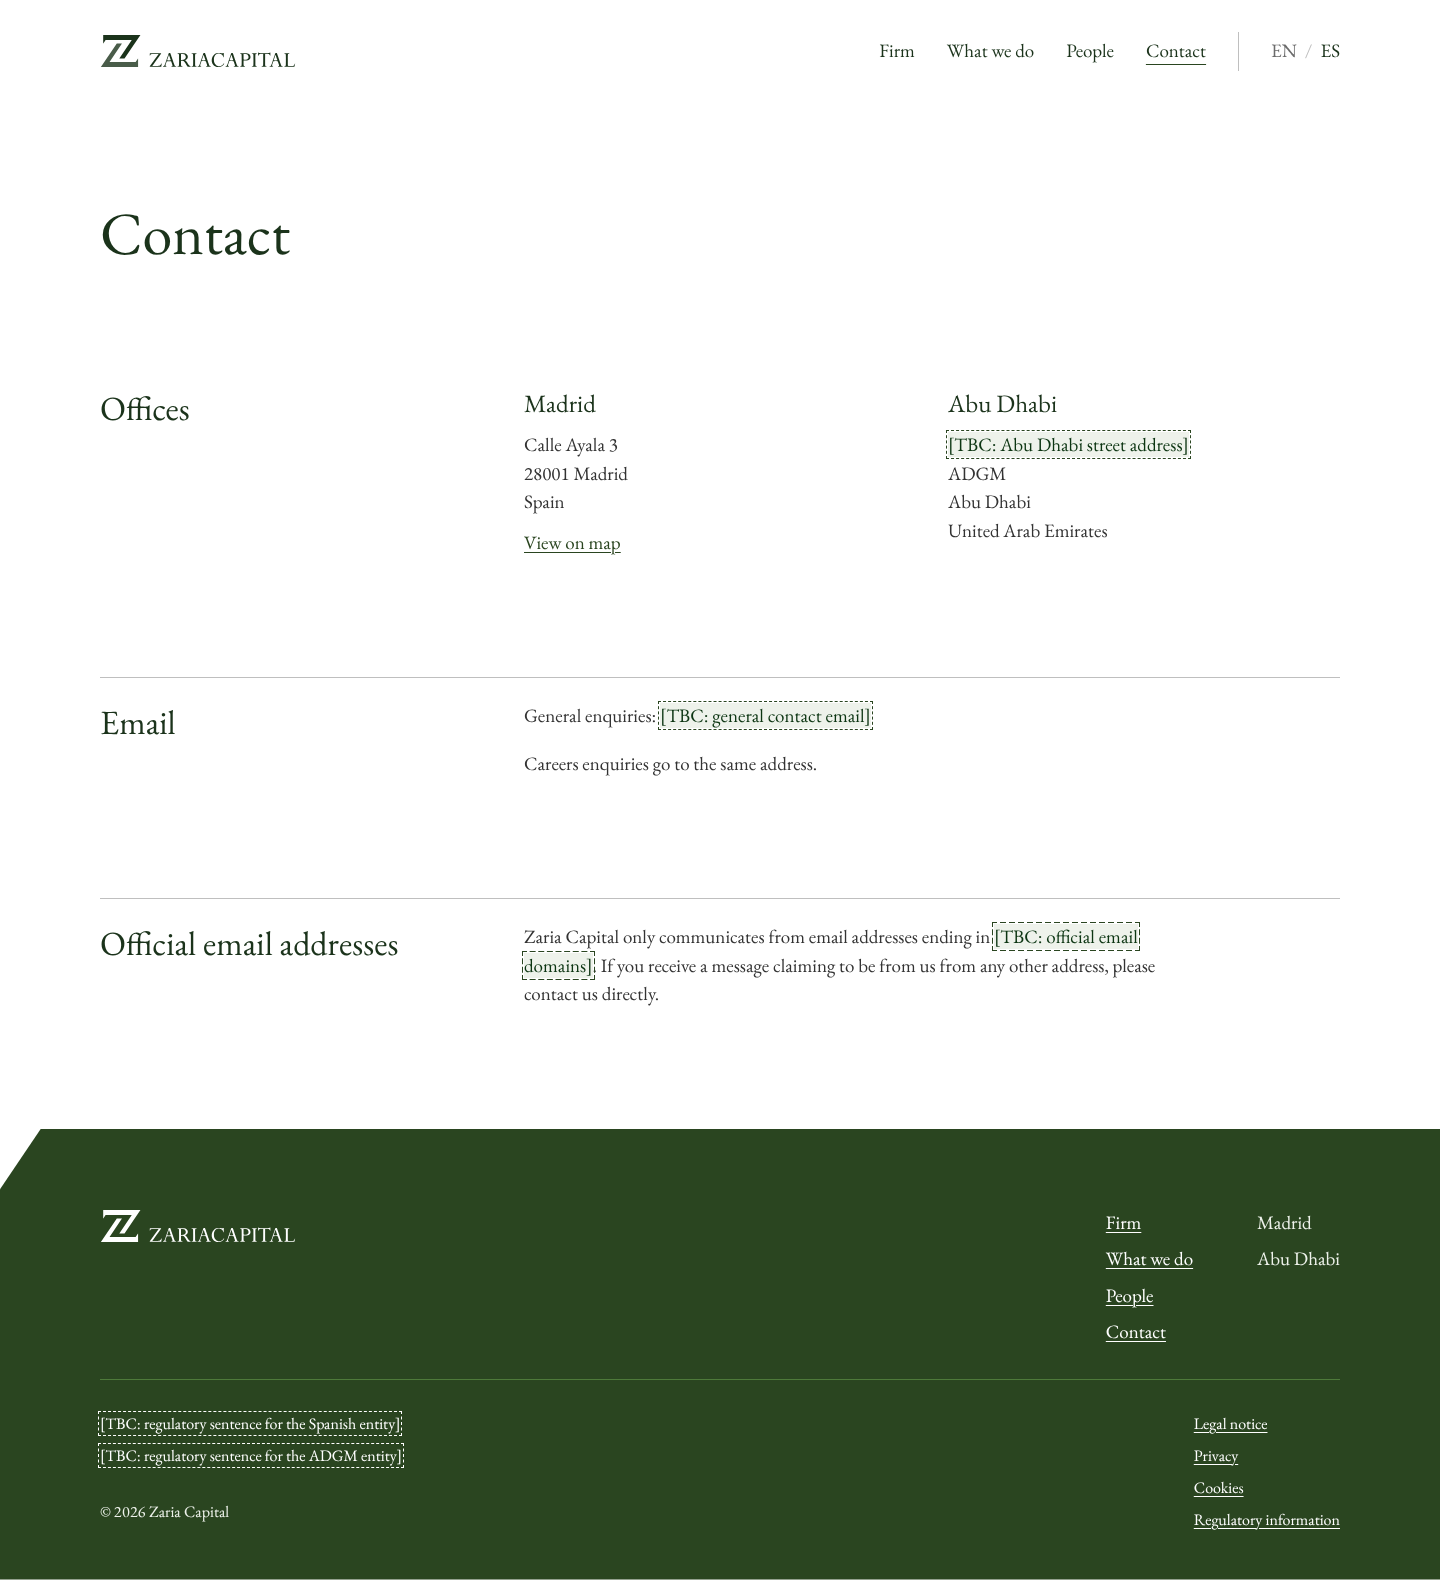
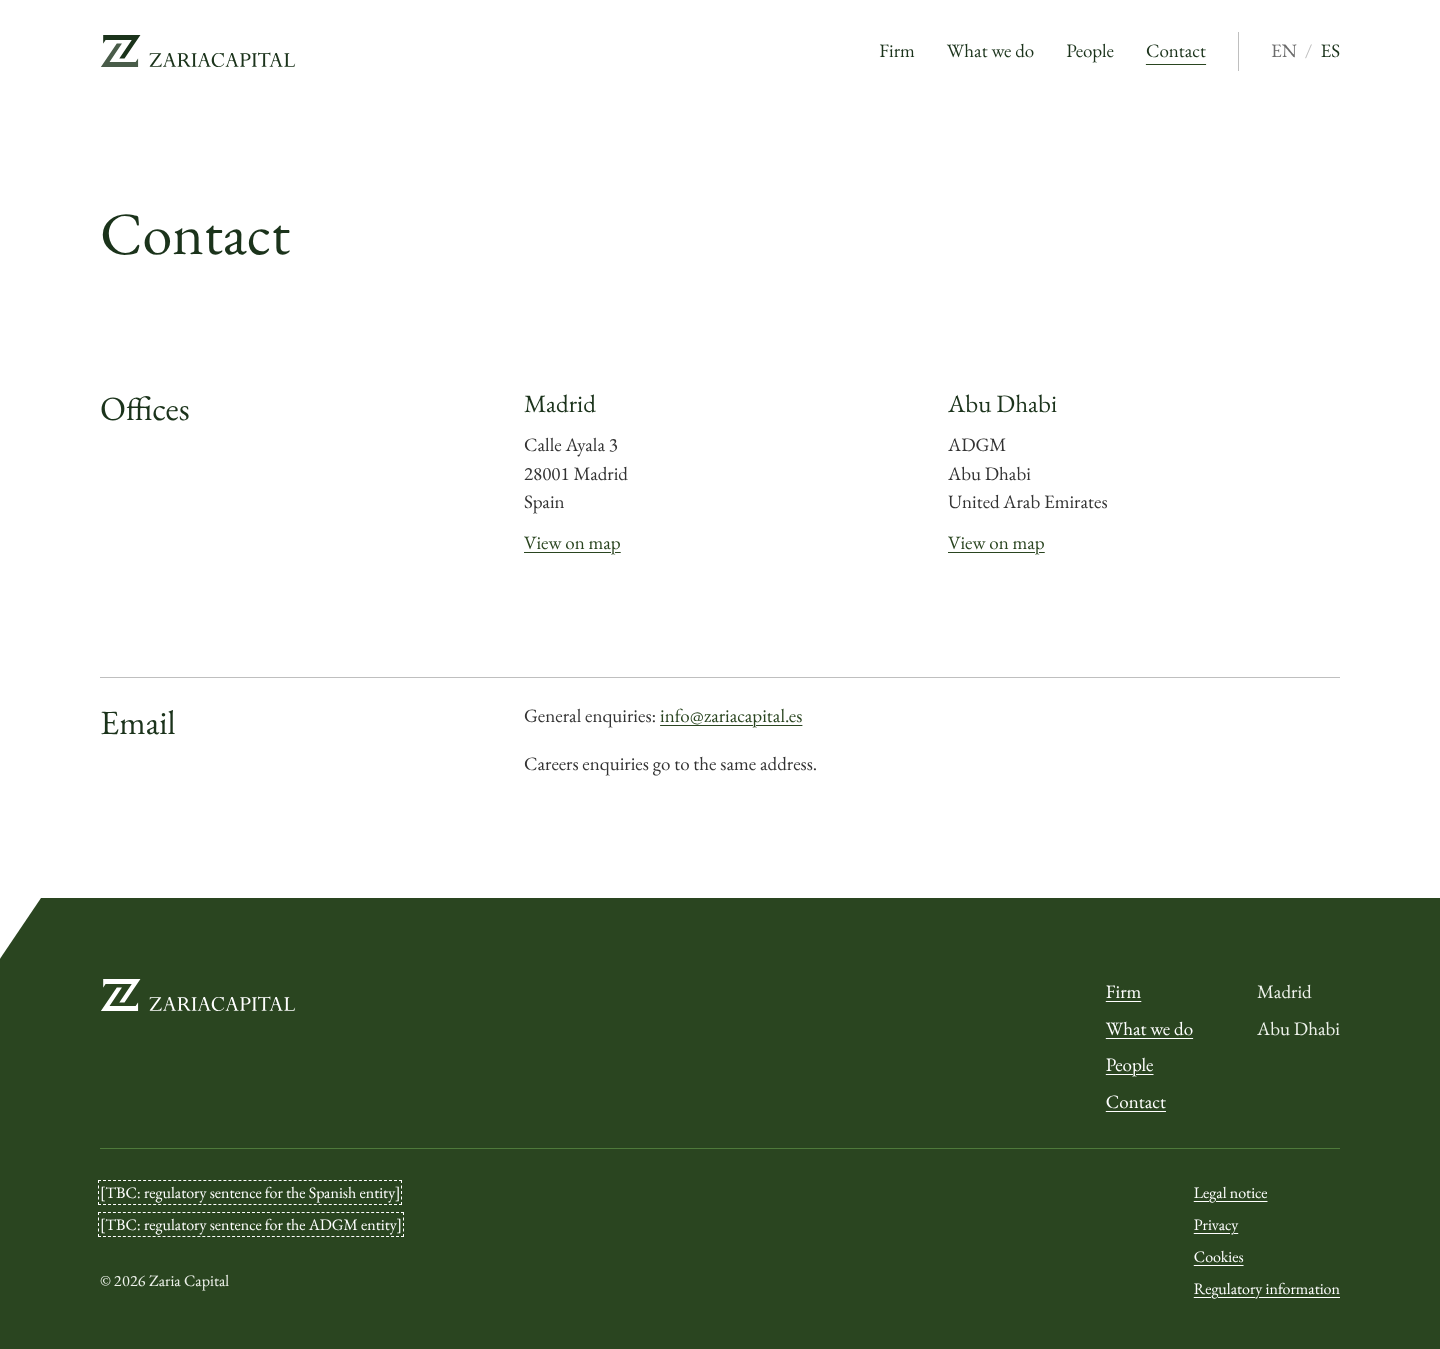
Apply owner inputs: email, Madrid photo, simpler Contact
General email info@zariacapital.es; Madrid photograph published on the
Firm page (web rights confirmed); official-email-domains note and Abu
Dhabi street address removed from Contact at the owner's request, with a
map link for ADGM instead. Screenshots refreshed; README and DECISIONS
updated.

Claude-Session: https://claude.ai/code/session_01Jx5eWbgW9NUgHygVVZawPk

diff --git a/src/lib/tokens.ts b/src/lib/tokens.ts
@@ -15,10 +15,8 @@ const missing = {
 		adgmAddress: 'ADGM entity address',
 		adgmRegulatory: 'whether the ADGM entity is authorised by the FSRA, and for which activities',
 		email: 'general contact email',
-		domains: 'official email domains',
 		hostingProvider: 'hosting provider',
 		hostingLogs: 'log retention period, location and transfer safeguard',
-		abuDhabiStreet: 'Abu Dhabi street address',
 	},
 	es: {
 		spainName: 'denominación social de la entidad española',
@@ -31,10 +29,8 @@ const missing = {
 		adgmAddress: 'dirección de la entidad de ADGM',
 		adgmRegulatory: 'si la entidad de ADGM está autorizada por la FSRA, y para qué actividades',
 		email: 'email general de contacto',
-		domains: 'dominios de email oficiales',
 		hostingProvider: 'proveedor de alojamiento',
 		hostingLogs: 'plazo de conservación, ubicación y garantía de transferencia de los registros',
-		abuDhabiStreet: 'dirección completa en Abu Dabi',
 	},
 } as const;
 
@@ -42,9 +38,6 @@ export async function pageTokens(lang: Lang): Promise<Record<string, string>> {
 	const s = await getSettings();
 	const m = missing[lang];
 	const { spain, adgm } = s.entities;
-	const domains = s.officialEmailDomains.length
-		? listHtml(s.officialEmailDomains.map((d) => `@${esc(d)}`), lang)
-		: valueHtml(null, m.domains);
 	const link = (key: keyof typeof routes, label: string) => `<a href="${url(routes[key][lang])}">${esc(label)}</a>`;
 	const labels = {
 		en: { privacy: 'privacy notice', cookies: 'cookies page', regulatory: 'regulatory information', legal: 'legal notice', contact: 'contact page' },
@@ -61,7 +54,6 @@ export async function pageTokens(lang: Lang): Promise<Record<string, string>> {
 		adgmAddress: valueHtml(adgm.address, m.adgmAddress),
 		adgmRegulatory: valueHtml(adgm.regulatoryStatement[lang], m.adgmRegulatory),
 		email: emailHtml(s.email, m.email),
-		domains,
 		hostingProvider: valueHtml(s.hosting.provider, m.hostingProvider),
 		hostingLogs: valueHtml(s.hosting.logDetails[lang], m.hostingLogs),
 		privacyLink: link('privacy', labels.privacy),
@@ -70,12 +62,6 @@ export async function pageTokens(lang: Lang): Promise<Record<string, string>> {
 		legalLink: link('legalNotice', labels.legal),
 		contactLink: link('contact', labels.contact),
 	};
-}
-
-function listHtml(items: string[], lang: Lang): string {
-	const and = lang === 'en' ? ' or ' : ' o ';
-	if (items.length === 1) return items[0];
-	return `${items.slice(0, -1).join(', ')}${and}${items.at(-1)}`;
 }
 
 export { missing as missingLabels };

diff --git a/src/lib/structured-data.ts b/src/lib/structured-data.ts
@@ -8,7 +8,6 @@ export async function organizationJsonLd(site: URL | undefined) {
 	const s = await getSettings();
 	const origin = site ?? 'https://zariacapital.es';
 	const spain = s.entities.spain;
-	const abuDhabi = s.offices.abuDhabi;
 	const data: Record<string, unknown> = {
 		'@context': 'https://schema.org',
 		'@type': 'Organization',
@@ -25,7 +24,6 @@ export async function organizationJsonLd(site: URL | undefined) {
 			},
 			{
 				'@type': 'PostalAddress',
-				...(abuDhabi.streetAddress ? { streetAddress: abuDhabi.streetAddress } : {}),
 				addressLocality: 'Abu Dhabi',
 				addressCountry: 'AE',
 			},

diff --git a/src/content.config.ts b/src/content.config.ts
@@ -11,14 +11,10 @@ const settings = defineCollection({
 	loader: file('src/content/settings.yaml'),
 	schema: z.object({
 		email: z.string().email().nullable(),
-		officialEmailDomains: z.array(z.string()),
 		madridPhotoWebRights: z.boolean(),
 		offices: z.object({
 			madrid: z.object({ phone: z.string().nullable() }),
-			abuDhabi: z.object({
-				streetAddress: z.string().nullable(),
-				phone: z.string().nullable(),
-			}),
+			abuDhabi: z.object({ phone: z.string().nullable() }),
 		}),
 		entities: z.object({
 			spain: z.object({

diff --git a/README.md b/README.md
@@ -2,7 +2,7 @@
 
 The public website of Zaria Capital: a static, bilingual (English and Spanish) site built with [Astro](https://astro.build) 7. No CMS, no forms, no cookies, no database, no third-party requests.
 
-- **Preview:** `https://rodrigoagaz.github.io/Zariaweb/` (GitHub Pages, every page `noindex`). See [Deploy](#deploy).
+- **Preview:** `https://rodrigoagaz.github.io/Zariaweb/` (GitHub Pages, every page `noindex`), live once Pages is switched on (see [Deploy](#deploy)). The production host will be chosen later.
 - **Design:** [`DESIGN.md`](DESIGN.md). **Decisions:** [`DECISIONS.md`](DECISIONS.md).
 - **Screenshots:** [`screenshots/`](screenshots/) (every page at 375, 768 and 1440 px). **Audits:** [`reports/`](reports/).
 
@@ -19,14 +19,10 @@ The site shows `[TBC: …]` wherever Zaria Capital has not yet supplied informat
 | Registered address | same three pages | `entities.spain.registeredAddress` |
 | Registro Mercantil details | Legal notice, Regulatory | `entities.spain.registry` (en and es) |
 | ADGM entity legal name, registration number, address | Regulatory / Información regulatoria | `entities.adgm.*` |
-| General contact email | Contact, Legal notice, Privacy (and JSON-LD once supplied) | `email` |
-| Official email domains (anti-impersonation note) | Contact / Contacto | `officialEmailDomains` |
-| Abu Dhabi street address (also enables its "View on map" link) | Contact / Contacto | `offices.abuDhabi.streetAddress` |
-| Hosting provider, and its log retention, location and transfer safeguard | Privacy / Privacidad | `hosting.provider`, `hosting.logDetails` |
+| Hosting provider for launch, and its log retention, location and transfer safeguard | Privacy / Privacidad | `hosting.provider`, `hosting.logDetails` (the owner will choose the host later) |
 | Founder's headshot, office, languages | People / Equipo | `alonso-aznar.yaml`: `photo`, `office`, `languages` |
 | Telephone per office (optional: omitted, not shown as TBC) | Contact | `offices.*.phone` |
-| Confirmation of web rights to the Madrid photograph (optional: the site works without it) | Firm / Firma, once enabled | `madridPhotoWebRights: true` |
-| Perpetua web-font licence, or decision to stay on EB Garamond | Every page | See [Switching to Perpetua](#switching-eb-garamond-to-perpetua) |
+| Perpetua WOFF2 files (the licence is held; the files are needed) | Every page | See [Switching to Perpetua](#switching-eb-garamond-to-perpetua) |
 | Production domain (zariacapital.es and/or .com) | Canonicals, hreflang, sitemap, OG tags | `site` in `astro.config.mjs` (currently `https://zariacapital.es`) |
 | Team beyond the founder | People / Equipo | [Adding a person](#adding-a-person) |
 | Designer's master logo file (AI, EPS, PDF or SVG) | Header, footer, 404, OG image | Replace the files in `brand/logo/` (the current wordmark is traced from the deck artwork) |
@@ -102,7 +98,7 @@ Every URL in both languages is defined once in `src/lib/routes.ts`. That map gen
 
 ## Switching EB Garamond to Perpetua
 
-The site declares one family, "Zaria Serif". Until the Perpetua web licence (Monotype) is confirmed, its files are EB Garamond (SIL Open Font License, `src/assets/fonts/OFL-EB-Garamond.txt`), self-hosted, regular and italic, Latin and Latin Extended subsets.
+The site declares one family, "Zaria Serif". Zaria holds a Perpetua licence (Monotype); until the web font files are added, its files are EB Garamond (SIL Open Font License, `src/assets/fonts/OFL-EB-Garamond.txt`), self-hosted, regular and italic, Latin and Latin Extended subsets.
 
 To switch: put the licensed Perpetua WOFF2 files (regular and italic, Latin and Latin Extended subsets) in `src/assets/fonts/` and change the four `src` paths in the `fonts` block of `astro.config.mjs`. Nothing else changes: the metric-matched fallback is regenerated from the new files, and only the regular Latin file is preloaded. Never add a `local("Perpetua")` source: visitors with Microsoft Office have Perpetua installed and would see a different version from everyone else.
 
@@ -123,7 +119,7 @@ The current zariacapital.es runs on WordPress. This build does not touch its DNS
 |---|---|---|
 | Logos (`brand/logo/`) | Zaria Capital deck template; mark rebuilt geometrically, wordmark traced from the deck artwork | Zaria Capital. Replace with the designer's master file when available. |
 | Favicons (`brand/favicon/`, copied to `public/`) | Zaria brand kit | Zaria Capital. The manifest's icon paths are made relative in `public/` so they work on the preview subpath. |
-| Madrid aerial (`brand/imagery/`, `src/assets/images/`) | Zaria Capital deck covers | **Web rights unconfirmed.** Not published: the Firm page shows it only when `madridPhotoWebRights: true`. Narrow screens get a square crop centred on the Metrópolis dome and Gran Vía. |
+| Madrid aerial (`brand/imagery/`, `src/assets/images/`) | Zaria Capital deck covers | Zaria holds web rights (confirmed by the owner, 19 October 2026). Shown once, on the Firm page. Narrow screens get a square crop centred on the Metrópolis dome and Gran Vía. Setting `madridPhotoWebRights: false` removes it. |
 | OG image (`public/og-image.png`) | Generated by `scripts/og-image.mjs` from the stacked logo | Zaria Capital |
 | EB Garamond | Google Fonts via `@fontsource/eb-garamond` | SIL Open Font License 1.1 |
 

diff --git a/DECISIONS.md b/DECISIONS.md
@@ -2,6 +2,15 @@
 
 Newest first. Decisions taken by the owner are marked **(owner)**; defaults taken by the build are marked **(build)**.
 
+## 2026-10-19 (after Checkpoint 2)
+
+- **General email: info@zariacapital.es (owner).** Shown on Contact and the legal pages, and included in the JSON-LD.
+- **No anti-impersonation note (owner).** The official-email-domains warning required by the brief is removed from Contact.
+- **No Abu Dhabi street address (owner).** Contact shows "ADGM, Abu Dhabi, United Arab Emirates"; its map link searches for Abu Dhabi Global Market.
+- **Madrid photograph: web rights held (owner).** Now published once, on the Firm page, with an art-directed square crop on narrow screens. The homepage stays typographic (Direction A).
+- **Perpetua licence held (owner).** The switch needs the licensed WOFF2 files (regular and italic); until they are supplied the site stays on EB Garamond.
+- **Hosting: GitHub Pages for now; production host to be decided (owner).** The privacy notice keeps a `[TBC]` for the host and its log details until then.
+
 ## 2026-10-19
 
 - **Homepage direction: A, typographic (owner, Checkpoint 1).** White ground, one-sentence H1, the Z diagonal as the only graphic element. Direction B (Madrid and Abu Dhabi photographs meeting along a 56 degree seam) was built, screenshotted (`screenshots/checkpoint-1/`) and set aside: it depended on two images that cannot yet be published (Madrid web rights unconfirmed, no Abu Dhabi image), it made the largest paint a photograph, and a generic Gulf skyline would undercut the positioning. The Madrid photograph can still appear once on the Firm page when rights are confirmed (`madridPhotoWebRights` in `src/content/settings.yaml`).
